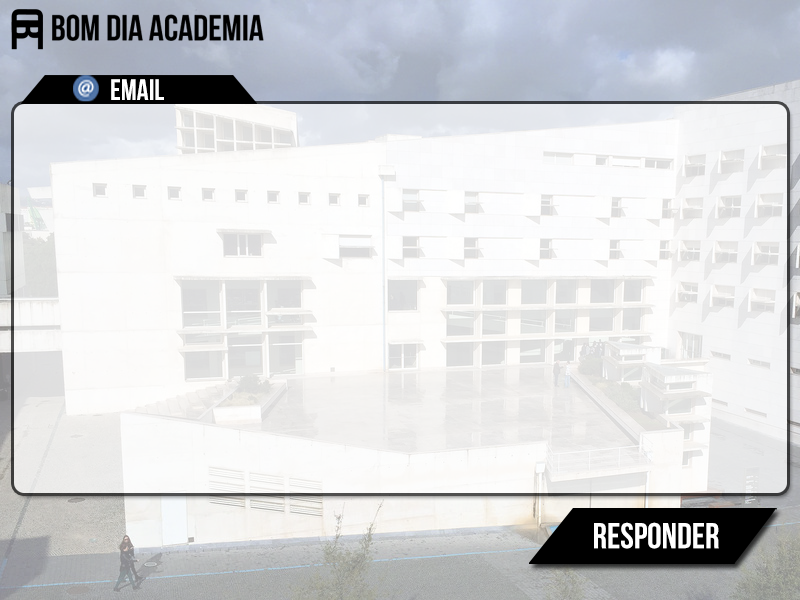
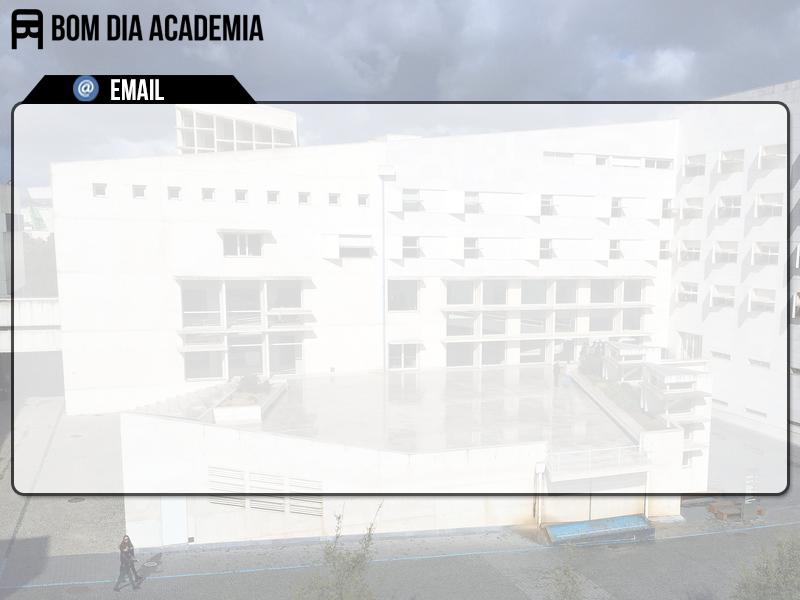
"Improved GUI part of emails, changed email server to IMAP, Show email content on GUI."

Changed region(s): [[0.6562, 0.84, 0.9688, 0.96]]

diff --git a/ES1-2018-EIC2-08/src/BDA/Mail.java b/ES1-2018-EIC2-08/src/BDA/Mail.java
@@ -1,5 +1,7 @@
 package BDA;
 import java.io.IOException;
+import java.util.ArrayList;
+import java.util.Collections;
 import java.util.Properties;
 
 import javax.mail.BodyPart;
@@ -31,61 +33,44 @@ public class Mail {
 		
 		String username="darfo@iscte-iul.pt";
 		String password= "EngenhariaSoftware98";
-        String host = "pop3.live.com";
+        String host = "outlook.office365.com";
 
         Properties props = new Properties();
-        props.put("mail.pop3.host", host);
-        props.put("mail.pop3.user", username);
-        props.put("mail.pop3.port", 995);
+        props.put("mail.imap.host", host);
+        props.put("mail.imap.user", username);
+        props.put("mail.imap.port", 993);
         props.put("mail.debug", "true");
-        props.put("mail.pop3.socketFactory.class","javax.net.ssl.SSLSocketFactory");
-        props.put("mail.pop3.socketFactory.fallback", "false");
-        props.put("mail.pop3.socketFactory.port", "995");
+        props.put("mail.imap.socketFactory.class","javax.net.ssl.SSLSocketFactory");
+        props.put("mail.imap.socketFactory.fallback", "false");
+        props.put("mail.imap.socketFactory.port", "993");
         Session session = Session.getInstance(props);
-        Store store = session.getStore("pop3");
-        store.connect(host, 995, username, password);
+        Store store = session.getStore("imap");
+        store.connect(host, 993, username, password);
         
 	      //create the folder object and open it
 	      Folder emailFolder = store.getFolder("INBOX");
 	      emailFolder.open(Folder.READ_ONLY);
 
 	      // retrieve the messages from the folder in an array and print it
-	      Message[] messages = emailFolder.getMessages();
-	      DefaultListModel<Email> emails=new DefaultListModel<Email>();
-	      int i=0;
+	      Message[] messages = emailFolder.getMessages((emailFolder.getMessageCount()-20),(emailFolder.getMessageCount()));
+	      
+	      ArrayList<Email> order=new ArrayList<Email>();
+	      
 	      for(Message m: messages){
 	    	  if(m.getFrom()[0].toString().contains("iscte")){
-	    		  emails.addElement(new Email(m));
-	    		  i++;
+	    	  order.add(new Email(m));
 	    	  }
-	    	  if(i==20){
-	    		  break;
-	    	  }
-	    	  
+	    	 
 	      }
 	      
+	      Collections.sort(order);
+	      DefaultListModel<Email> emails=new DefaultListModel<Email>();
 	      
-	      
-	      /*
-	      System.out.println("messages.length---" + messages.length);
-
-	      for (int i = 0, n = 20; i < n; i++) {
-	         Message message = messages[i];
-	         
-	         if(message.getFrom()[0].toString().contains("iscte")){
-	         System.out.println(username);
-	         System.out.println("---------------------------------");
-	         System.out.println("Email Number " + (i + 1));
-	         System.out.println("Subject: " + message.getSubject());
-	         System.out.println("From: " + message.getFrom()[0]);
-	         System.out.println("Text: " + getTextFromMessage( message));
-	         }else{
-	        	 n++;
-	         }
-	         
-
-	      }*/
-
+	      for(Email e: order){
+	    		  emails.addElement(e);
+	    		 
+	      }
+	     
 	      //close the store and folder objects
 	     // emailFolder.close(false);
 	      //store.close();

diff --git a/ES1-2018-EIC2-08/src/BDA/EmailSingular.java b/ES1-2018-EIC2-08/src/BDA/EmailSingular.java
@@ -1,5 +1,6 @@
 package BDA;
 
+import javax.mail.MessagingException;
 import javax.swing.*;
 
 import java.awt.*;
@@ -8,9 +9,11 @@ import java.io.IOException;
 
 public class EmailSingular {
 	public	JFrame launcher;
+	private Email email;
 	
-	public EmailSingular(){
+	public EmailSingular(Email email){
 		try {
+			this.email=email;
 			init();
 		} catch (IOException e) {
 			// TODO Auto-generated catch block
@@ -23,21 +26,54 @@ public class EmailSingular {
 		//SettingsJFrame
 		launcher = new JFrame("BOM DIA ACADEMIA!");
 		launcher.setResizable(false);
-		launcher.setDefaultCloseOperation(JFrame.EXIT_ON_CLOSE); 
+		launcher.setDefaultCloseOperation(JFrame.DISPOSE_ON_CLOSE); 
 		launcher.setLayout(new BorderLayout());
 		launcher.setVisible(true);
 		
 		//Background
 		Background background=new Background("images/emailsingular.png");
-		background.setLayout(new BorderLayout());
+		background.setLayout(new GridBagLayout());
 		background.setPreferredSize(new Dimension(800,600));
+
+		GridBagConstraints c=new GridBagConstraints();
+		c.gridx=0;
+		c.gridy=0;
+		c.gridheight=2;
+		c.insets=new Insets(80, 0, 0, 0);
+		
+		JPanel text=new JPanel();
+		text.setPreferredSize(new Dimension(730,380));
+		background.add(text, c);
+		
+		JTextPane area=new JTextPane();
+		area.setContentType("text/html");
+		area.setPreferredSize(new Dimension(720,380));
+		
+		try {
+			area.setText("Email: "+ email.getSubject() +"<br/>From: "+ email.getFrom()+ "<br/>Date:"+email.getTimestamp()+ "</b> <br><br> <br/>"+ Mail.getTextFromMessage(email.getMsm()));
+		} catch (MessagingException e) {
+			// TODO Auto-generated catch block
+			e.printStackTrace();
+		}
+		text.add(area);
+		
+		
+		JLabel r=new JLabel(new ImageIcon("images/responder.png"));
+		r.setPreferredSize(new Dimension(300,70));
+		c.gridx=0;
+		c.gridy=2;
+		c.insets=new Insets(15, 0, 0, 0);
+		background.add(r,c);
+		
+		
 		launcher.add(background);
 		launcher.setSize(800, 600);
 		launcher.pack();
 
 	 }
+	/*
 	public static void main(String args[]){
 	    new EmailSingular();
 
-	}
+	}*/
 	}

diff --git a/ES1-2018-EIC2-08/src/BDA/MainTimeline.java b/ES1-2018-EIC2-08/src/BDA/MainTimeline.java
@@ -3,6 +3,8 @@ package BDA;
 import javax.mail.Message;
 import javax.swing.*;
 import javax.swing.border.EmptyBorder;
+import javax.swing.event.ListSelectionEvent;
+import javax.swing.event.ListSelectionListener;
 
 import java.awt.*;
 import java.awt.event.*;
@@ -64,17 +66,29 @@ public void init() throws IOException {
 	background.add(twitter,c);
 	
 	JList<Email> emails=new JList<Email>(Mail.LoginMail());
-	//System.out.println(Mail.LoginMail());
-	//emails.setFixedCellHeight(50);
-	//emails.setFixedCellWidth(230);
-//	emails.setBorder(new EmptyBorder(10,5, 10, 0));
+	System.out.println(Mail.LoginMail().size());
+	((DefaultListCellRenderer)emails.getCellRenderer()).setOpaque(false);
+	emails.setFixedCellHeight(70);
+	emails.setBorder(new EmptyBorder(10,5, 10, 0));
 	emails.setOpaque(false);
-	emails.setPreferredSize(new Dimension(240,480));
+
+	emails.addListSelectionListener( new ListSelectionListener() {
+		
+		@Override
+		public void valueChanged(ListSelectionEvent e) {
+			
+			if (emails.getSelectedValue() != null && !e.getValueIsAdjusting()) {
+				Email selectedValue = emails.getSelectedValue();
+				new EmailSingular(selectedValue);
+			}
+		}
+	});
 	
 	
 	JScrollPane scroll=new JScrollPane(emails);
-	scroll.setPreferredSize(new Dimension(240,480));
-	//scroll.setVerticalScrollBarPolicy(JScrollPane.VERTICAL_SCROLLBAR_ALWAYS);
+	scroll.setOpaque(false);
+	scroll.getViewport().setOpaque(false);
+	scroll.setPreferredSize(new Dimension(250,500));
 	email.add(scroll);
 	
 	

diff --git a/ES1-2018-EIC2-08/src/BDA/Email.java b/ES1-2018-EIC2-08/src/BDA/Email.java
@@ -5,7 +5,7 @@ import java.util.Date;
 import javax.mail.Message;
 import javax.mail.MessagingException;
 
-public class Email {
+public class Email implements Comparable<Email>{
 
 	private Message msm;
 	private String subject;
@@ -23,13 +23,37 @@ public class Email {
 			e.printStackTrace();
 		}
 	}
+	
+	public Date getTimestamp() {
+		return timestamp;
+	}
+
+	
+
+
+	public Message getMsm() {
+		return msm;
+	}
+
+	public String getSubject() {
+		return subject;
+	}
+
+	public String getFrom() {
+		return from;
+	}
 
 	@Override
 	public String toString() {
-		
-			return "Email: "+ subject +"From: "+ from;
-		
-		
+		return "<html> Email: "+ subject +"<br/>From: "+ from+ "<br/>Date:"+timestamp;
+	}
+	
+	
+
+	@Override
+	public int compareTo(Email o) {
+		// TODO Auto-generated method stub
+		return o.getTimestamp().compareTo(getTimestamp());
 	}
 	
 	
